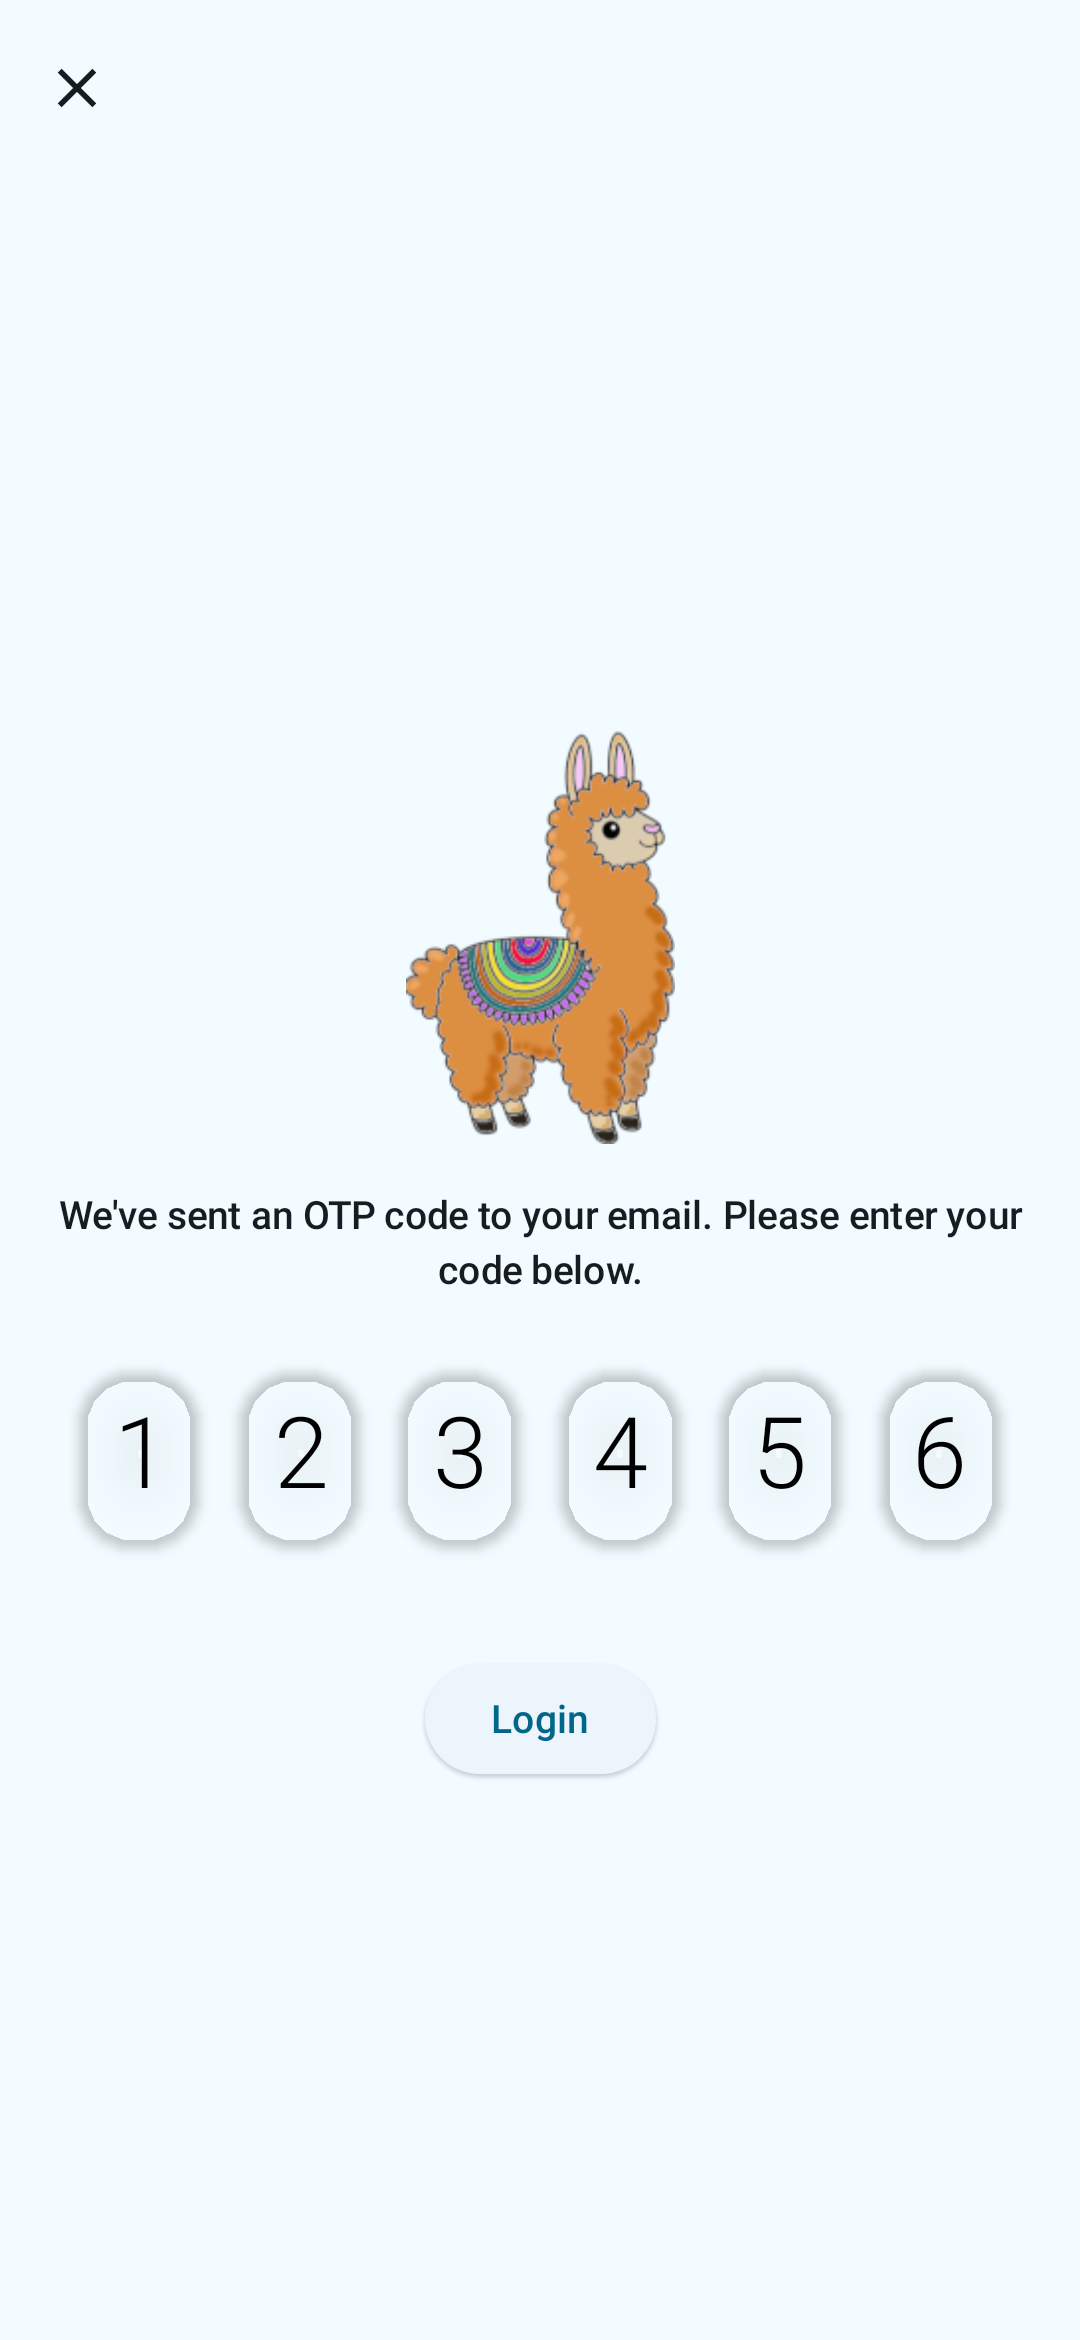
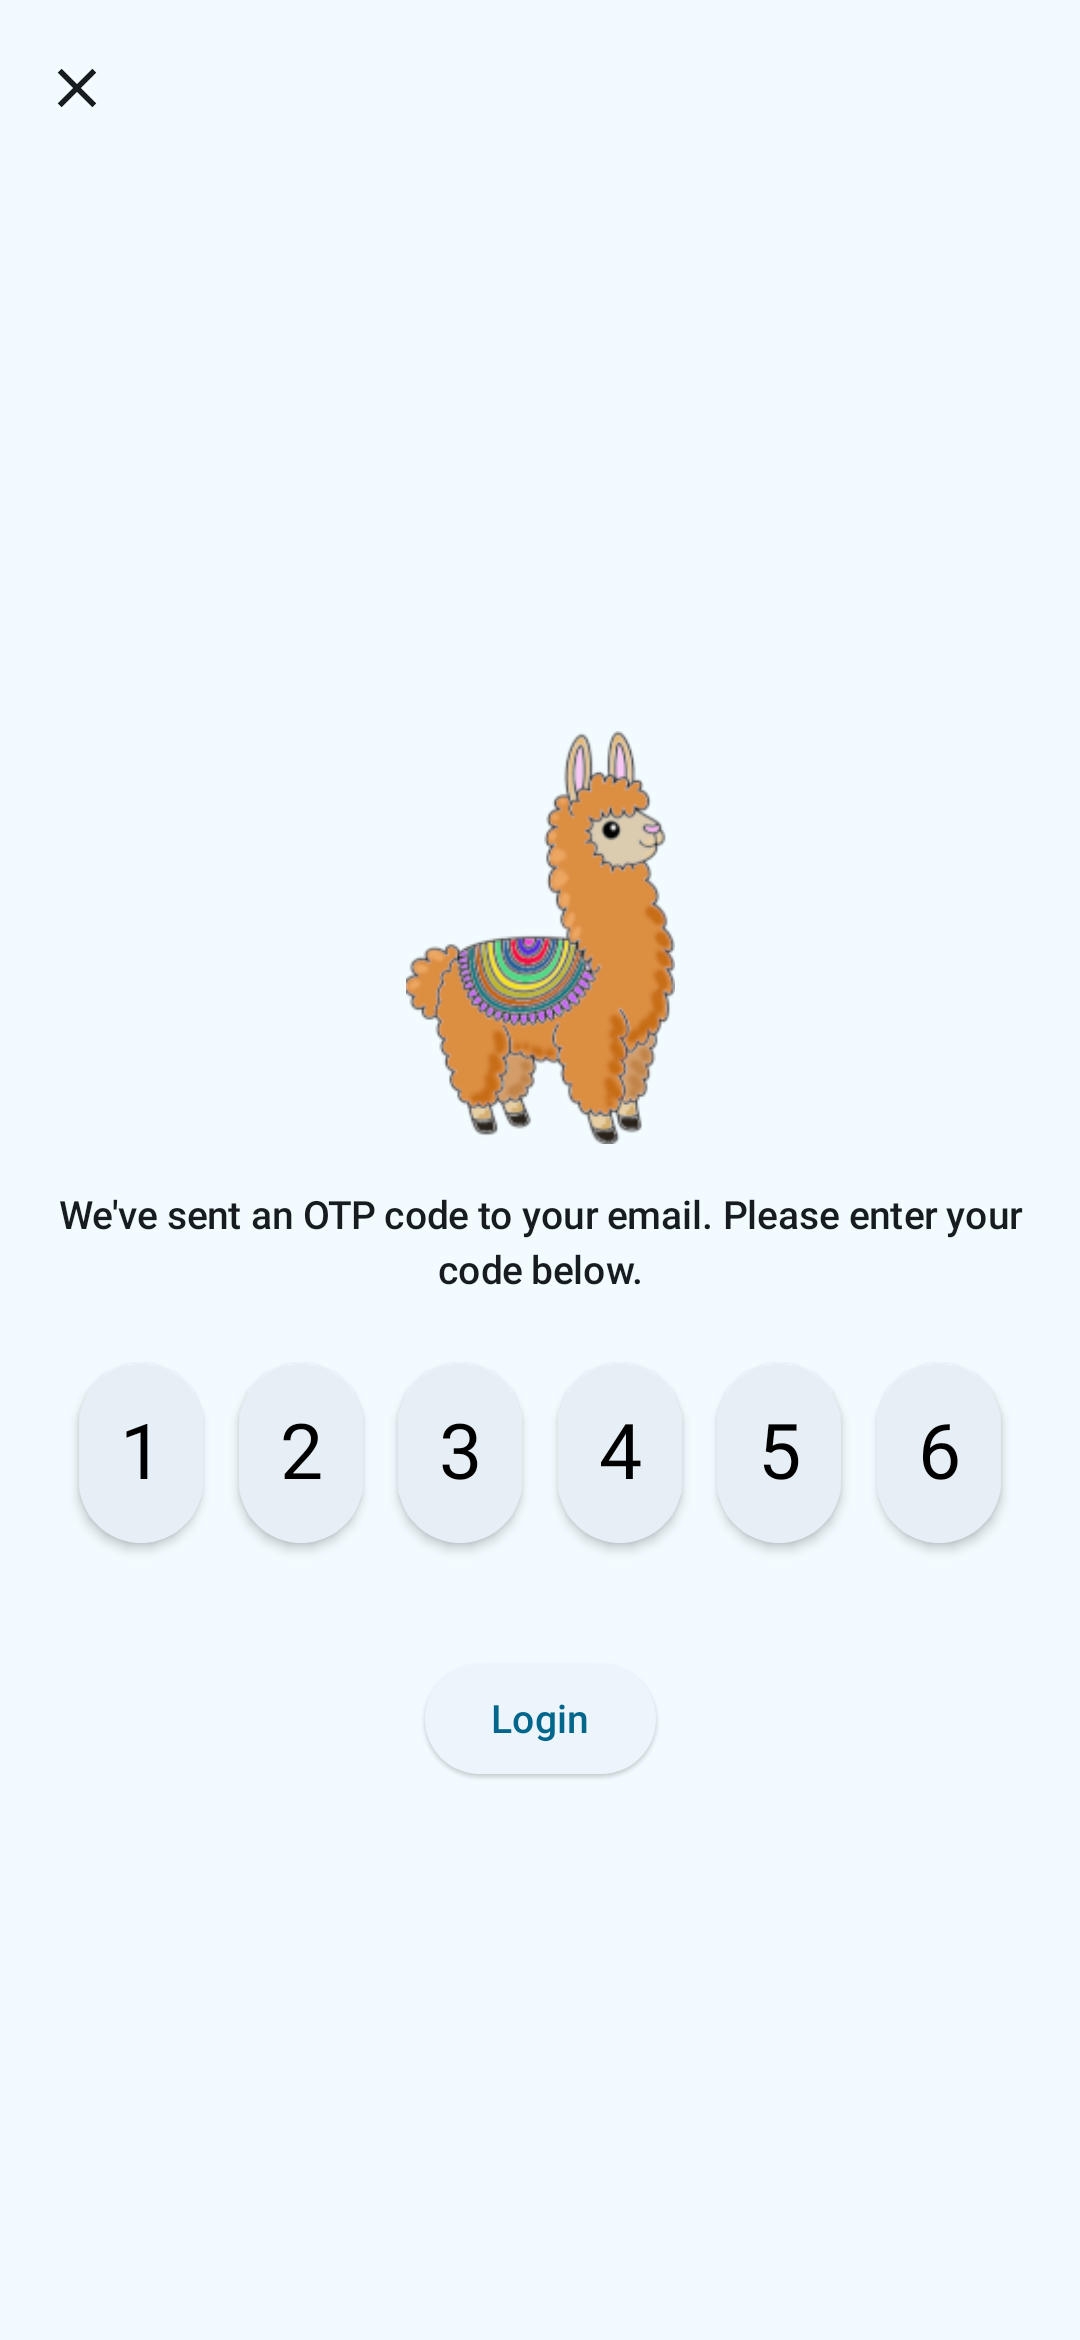
#191 - Fix OTP field focus (#208)
* [EDIFIKANA] #191 Fixed issues with otp field focus. Fixed delete to actually change pos. Updated themes

* [EDIFIKANA] #191 Disabled abilty to add non-digits. Updated tests and moved all validation logic to VM.

* Addressing copilot PR feedback.

* Addressing PR feedback, added TODO

* [ignore-commit] Committing CI changes

---------

diff --git a/edifikana/front-end/shared-app/src/commonMain/kotlin/com/cramsan/edifikana/client/lib/features/auth/validation/OtpValidationScreen.kt b/edifikana/front-end/shared-app/src/commonMain/kotlin/com/cramsan/edifikana/client/lib/features/auth/validation/OtpValidationScreen.kt
@@ -2,6 +2,7 @@ package com.cramsan.edifikana.client.lib.features.auth.validation
 
 import androidx.compose.animation.AnimatedContent
 import androidx.compose.foundation.Image
+import androidx.compose.foundation.background
 import androidx.compose.foundation.border
 import androidx.compose.foundation.layout.Arrangement
 import androidx.compose.foundation.layout.Box
@@ -11,7 +12,6 @@ import androidx.compose.foundation.layout.padding
 import androidx.compose.foundation.layout.size
 import androidx.compose.foundation.layout.wrapContentSize
 import androidx.compose.foundation.layout.wrapContentWidth
-import androidx.compose.foundation.shape.RoundedCornerShape
 import androidx.compose.foundation.text.BasicTextField
 import androidx.compose.foundation.text.KeyboardOptions
 import androidx.compose.material3.ElevatedButton
@@ -32,7 +32,6 @@ import androidx.compose.ui.draw.shadow
 import androidx.compose.ui.focus.FocusRequester
 import androidx.compose.ui.focus.focusRequester
 import androidx.compose.ui.focus.onFocusChanged
-import androidx.compose.ui.graphics.Color
 import androidx.compose.ui.graphics.SolidColor
 import androidx.compose.ui.input.key.Key
 import androidx.compose.ui.input.key.key
@@ -40,13 +39,10 @@ import androidx.compose.ui.input.key.onKeyEvent
 import androidx.compose.ui.platform.LocalFocusManager
 import androidx.compose.ui.platform.LocalSoftwareKeyboardController
 import androidx.compose.ui.text.TextRange
-import androidx.compose.ui.text.TextStyle
-import androidx.compose.ui.text.font.FontWeight
 import androidx.compose.ui.text.input.KeyboardType
 import androidx.compose.ui.text.input.TextFieldValue
 import androidx.compose.ui.text.style.TextAlign
 import androidx.compose.ui.unit.dp
-import androidx.compose.ui.unit.sp
 import androidx.lifecycle.Lifecycle
 import androidx.lifecycle.compose.LifecycleEventEffect
 import com.cramsan.edifikana.client.lib.features.auth.AuthRouteDestination
@@ -125,7 +121,7 @@ internal fun OtpValidationContent(
     onLoginClicked: () -> Unit,
     onBackClicked: () -> Unit,
     onOtpFieldFocused: (Int) -> Unit,
-    onEnterOtpValue: (Int?, Int) -> Unit,
+    onEnterOtpValue: (String?, Int) -> Unit,
     onKeyboardBack: () -> Unit,
 ) {
     Scaffold(
@@ -236,15 +232,15 @@ internal fun OtpValidationContent(
 @Suppress("UnusedParameter")
 @Composable
 fun OtpInputField(
-    value: Int?,
+    value: String?,
     focusRequester: FocusRequester,
     onFocusChanged: (Boolean) -> Unit,
-    onValueChanged: (Int?) -> Unit,
+    onValueChanged: (String?) -> Unit,
     onKeyboardBack: () -> Unit,
     modifier: Modifier = Modifier,
 ) {
     // State to hold the text field value and focus state
-    var text by remember {
+    var text by remember(value) {
         mutableStateOf(
             TextFieldValue(
                 text = value?.toString().orEmpty(),
@@ -261,13 +257,17 @@ fun OtpInputField(
 
     Box(
         modifier = modifier
+            .shadow(3.dp, MaterialTheme.shapes.extraLarge)
             .border(
                 width = 8.dp,
-                color = Color.Transparent,
-                shape = RoundedCornerShape(8.dp),
+                color = MaterialTheme.colorScheme.surfaceContainer,
+                shape = MaterialTheme.shapes.extraLarge,
             )
-            .size(width = 45.dp, height = 65.dp)
-            .shadow(3.dp, RoundedCornerShape(20.dp)),
+            .background(
+                color = MaterialTheme.colorScheme.surfaceContainer,
+                shape = MaterialTheme.shapes.extraLarge,
+            )
+            .size(width = 45.dp, height = 65.dp),
         contentAlignment = Alignment.Center
     ) {
         BasicTextField(
@@ -275,16 +275,13 @@ fun OtpInputField(
             onValueChange = { newText ->
                 val newValue = newText.text
                 if (newValue.length <= 1) {
-                    onValueChanged(newValue.toIntOrNull())
+                    onValueChanged(newValue)
                 }
             },
-            cursorBrush = SolidColor(MaterialTheme.colorScheme.primary),
+            cursorBrush = SolidColor(MaterialTheme.colorScheme.outlineVariant),
             singleLine = true,
-            textStyle = TextStyle(
-                textAlign = TextAlign.Center,
-                fontWeight = FontWeight.Light,
-                fontSize = 36.sp,
-                color = Color.Black,
+            textStyle = MaterialTheme.typography.headlineMedium.copy(
+                textAlign = TextAlign.Center
             ),
             keyboardOptions = KeyboardOptions(
                 keyboardType = KeyboardType.Number,
@@ -294,9 +291,10 @@ fun OtpInputField(
                 .focusRequester(focusRequester)
                 .onFocusChanged {
                     isFocused = it.isFocused
+                    onFocusChanged(isFocused)
                 }
                 .onKeyEvent { event ->
-                    val didPressDelete = event.key == Key.Delete
+                    val didPressDelete = event.key == Key.Delete || event.key == Key.Backspace
                     if (didPressDelete && value == null) {
                         onKeyboardBack()
                     }
@@ -308,9 +306,8 @@ fun OtpInputField(
                     Text(
                         text = "",
                         textAlign = TextAlign.Center,
-                        color = Color.Black,
-                        fontSize = 36.sp,
-                        fontWeight = FontWeight.Light,
+                        color = MaterialTheme.colorScheme.surfaceContainer,
+                        style = MaterialTheme.typography.headlineMedium,
                         modifier = Modifier
                             .wrapContentSize()
                     )
@@ -328,7 +325,7 @@ fun OtpSection(
     uistate: OtpValidationUIState,
     focusRequesters: List<FocusRequester>,
     onOtpFieldFocused: (Int) -> Unit,
-    onEnterOtpValue: (Int?, Int) -> Unit,
+    onEnterOtpValue: (String?, Int) -> Unit,
     onKeyboardBack: () -> Unit,
     modifier: Modifier = Modifier,
 ) {

diff --git a/edifikana/front-end/shared-app/src/androidMain/kotlin/com/cramsan/edifikana/client/lib/features/main/main/MainActivity.kt b/edifikana/front-end/shared-app/src/androidMain/kotlin/com/cramsan/edifikana/client/lib/features/main/main/MainActivity.kt
@@ -7,9 +7,12 @@ import androidx.activity.ComponentActivity
 import androidx.activity.compose.setContent
 import androidx.activity.result.PickVisualMediaRequest
 import androidx.activity.result.contract.ActivityResultContracts
+import androidx.compose.runtime.LaunchedEffect
 import androidx.core.content.ContextCompat
 import androidx.lifecycle.lifecycleScope
+import com.cramsan.edifikana.client.lib.features.application.EdifikanaApplicationViewModel
 import com.cramsan.edifikana.client.lib.features.main.camera.CameraContract
+import com.cramsan.edifikana.client.lib.features.window.ComposableKoinContext
 import com.cramsan.edifikana.client.lib.features.window.EdifikanaMainScreenEventHandler
 import com.cramsan.edifikana.client.lib.features.window.EdifikanaWindowScreen
 import com.cramsan.edifikana.client.lib.features.window.EdifikanaWindowViewModel
@@ -18,6 +21,9 @@ import com.cramsan.edifikana.client.lib.utils.shareContent
 import com.cramsan.framework.core.CoreUri
 import kotlinx.coroutines.launch
 import org.koin.android.ext.android.inject
+import org.koin.compose.koinInject
+import org.koin.compose.scope.KoinScope
+import org.koin.core.annotation.KoinExperimentalAPI
 
 /**
  * Main activity for the application.
@@ -38,14 +44,24 @@ class MainActivity : ComponentActivity(), EdifikanaMainScreenEventHandler {
         viewModel.handleReceivedImages(uris.map { CoreUri(it) })
     }
 
+    @OptIn(KoinExperimentalAPI::class)
     @Suppress("LongMethod")
     override fun onCreate(savedInstanceState: Bundle?) {
         super.onCreate(savedInstanceState)
-
+        // TODO: #199 to address temp fix implemented here
         setContent {
-            EdifikanaWindowScreen(
-                eventHandler = this,
-            )
+            ComposableKoinContext {
+                val processViewModel: EdifikanaApplicationViewModel = koinInject()
+                LaunchedEffect(Unit) {
+                    processViewModel.initialize()
+                }
+
+                KoinScope<String>("root-window") {
+                    EdifikanaWindowScreen(
+                        eventHandler = this,
+                    )
+                }
+            }
         }
     }
 

diff --git a/edifikana/front-end/shared-app/src/jvmTest/kotlin/com/cramsan/edifikana/client/lib/features/auth/validation/OtpValidationViewModelTest.kt b/edifikana/front-end/shared-app/src/jvmTest/kotlin/com/cramsan/edifikana/client/lib/features/auth/validation/OtpValidationViewModelTest.kt
@@ -81,7 +81,7 @@ class OtpValidationViewModelTest : CoroutineTest() {
     fun `signInWithOtp should call signInWithOtp on authManager with correct params`() = runCoroutineTest {
         // Arrange
         val email = "user@domain.com"
-        val otp = listOf(1,2,3,4,5,6)
+        val otp = listOf("1","2","3","4","5","6")
         viewModel.initializeOTPValidationScreen(email, accountCreationFlow = false)
         this.testScheduler.advanceUntilIdle()
         otp.forEachIndexed { index, value ->
@@ -126,12 +126,30 @@ class OtpValidationViewModelTest : CoroutineTest() {
         // Act
         viewModel.onOtpFieldFocused(0)
         this.testScheduler.advanceUntilIdle()
-        viewModel.onEnterOtpValue(5, 0)
+        viewModel.onEnterOtpValue("5", 0)
         this.testScheduler.advanceUntilIdle()
 
         // Assert
-        Assertions.assertEquals(5, viewModel.uiState.value.otpCode[0])
+        Assertions.assertEquals("5", viewModel.uiState.value.otpCode[0])
         Assertions.assertEquals(1, viewModel.uiState.value.focusedIndex)
+    }
+
+    /**
+     * Test that non-digit values are not entered/updated in the otp field.
+     */
+    @Test
+    fun `onEnterOtpValue should ignore non-digit values`() = runCoroutineTest {
+        // Arrange
+        viewModel.onOtpFieldFocused(1)
+        this.testScheduler.advanceUntilIdle()
+        val initialOtp = viewModel.uiState.value.otpCode[1]
+
+        // Act
+        viewModel.onEnterOtpValue("a", 1) // non-digit character
+        this.testScheduler.advanceUntilIdle()
+
+        // Assert
+        Assertions.assertEquals(initialOtp, viewModel.uiState.value.otpCode[1])
     }
 
     /**
@@ -142,7 +160,7 @@ class OtpValidationViewModelTest : CoroutineTest() {
         // Act
         viewModel.onOtpFieldFocused(2)
         this.testScheduler.advanceUntilIdle()
-        viewModel.onEnterOtpValue(7, 2)
+        viewModel.onEnterOtpValue("7", 2)
         this.testScheduler.advanceUntilIdle()
         viewModel.onKeyboardBack()
         this.testScheduler.advanceUntilIdle()

diff --git a/edifikana/front-end/shared-app/src/commonMain/kotlin/com/cramsan/edifikana/client/lib/features/auth/validation/OtpValidationViewModel.kt b/edifikana/front-end/shared-app/src/commonMain/kotlin/com/cramsan/edifikana/client/lib/features/auth/validation/OtpValidationViewModel.kt
@@ -59,15 +59,24 @@ class OtpValidationViewModel(
     /**
      * Called when the OTP value is entered or changed.
      */
-    fun onEnterOtpValue(value: Int?, index: Int) {
+    fun onEnterOtpValue(otpValue: String?, index: Int) {
+        // Check value entered is a digit, if not, do nothing
+        // NOTE: May need to add a check for an empty field in case this return false and doesn't allow new entry
+        val isValid = otpValue == null || (otpValue.length == 1 && otpValue[0].isDigit())
+        if (!isValid) {
+            return
+        }
+        // Update the OTP code at the specified index with the new value
         val newCode = uiState.value.otpCode.mapIndexed { currIndex, currVal ->
             if (currIndex == index) {
-                value
+                otpValue
             } else {
                 currVal
             }
         }
-        val wasValRemoved = value == null
+        // If the value is null, it means the user has removed the value from the field.
+        val wasValRemoved = otpValue == null
+        // Update the UI state with the new OTP code and focused index
         viewModelScope.launch {
             updateUiState {
                 it.copy(
@@ -125,7 +134,7 @@ class OtpValidationViewModel(
      * Returns the next focused index for the OTP field.
      */
     private fun getNextFocusedOtpFieldIndex(
-        currentCode: List<Int?>,
+        currentCode: List<String?>,
         currentFocusedIndex: Int?
     ): Int? {
         // If the current focused index is null, return null
@@ -144,7 +153,7 @@ class OtpValidationViewModel(
      * Returns the next focused index for the OTP field.
      */
     private fun getFirstEmptyFieldIndexAfterFocusedIndex(
-        code: List<Int?>,
+        code: List<String?>,
         currentFocusedIndex: Int
     ): Int {
         code.forEachIndexed { index, number ->

diff --git a/edifikana/front-end/shared-app/src/commonMain/kotlin/com/cramsan/edifikana/client/lib/features/auth/validation/OtpValidationScreen.preview.kt b/edifikana/front-end/shared-app/src/commonMain/kotlin/com/cramsan/edifikana/client/lib/features/auth/validation/OtpValidationScreen.preview.kt
@@ -2,10 +2,12 @@
 
 package com.cramsan.edifikana.client.lib.features.auth.validation
 
+import androidx.compose.foundation.layout.size
 import androidx.compose.runtime.Composable
 import androidx.compose.runtime.remember
 import androidx.compose.ui.Modifier
 import androidx.compose.ui.focus.FocusRequester
+import androidx.compose.ui.unit.dp
 import com.cramsan.edifikana.client.ui.theme.AppTheme
 import org.jetbrains.compose.ui.tooling.preview.Preview
 
@@ -17,7 +19,7 @@ private fun ValidationScreenPreview() = AppTheme {
             isLoading = true,
             errorMessage = "",
             email = "garcia.alicia1990@gmail.com",
-            otpCode = listOf(1, 2, 3, 4, 5, 6),
+            otpCode = listOf("1", "2", "3", "4", "5", "6"),
             focusedIndex = 0,
             accountCreationFlow = true,
         ),
@@ -34,11 +36,12 @@ private fun ValidationScreenPreview() = AppTheme {
 @Composable
 private fun OtpInputFieldPreview() = AppTheme {
     OtpInputField(
-        value = 6,
+        value = "6",
         focusRequester = remember { FocusRequester() },
         onFocusChanged = {},
         onKeyboardBack = {},
         onValueChanged = {},
-        modifier = Modifier,
+        modifier = Modifier
+            .size(100.dp),
     )
 }

diff --git a/edifikana/front-end/shared-app/src/commonMain/kotlin/com/cramsan/edifikana/client/lib/features/auth/validation/OtpValidationUIState.kt b/edifikana/front-end/shared-app/src/commonMain/kotlin/com/cramsan/edifikana/client/lib/features/auth/validation/OtpValidationUIState.kt
@@ -11,7 +11,7 @@ import com.cramsan.framework.core.compose.ViewModelUIState
 data class OtpValidationUIState(
     val isLoading: Boolean,
     val email: String,
-    val otpCode: List<Int?>,
+    val otpCode: List<String?>,
     val focusedIndex: Int?,
     val errorMessage: String?,
     val accountCreationFlow: Boolean,
@@ -20,7 +20,7 @@ data class OtpValidationUIState(
         val Initial = OtpValidationUIState(
             isLoading = true,
             email = "",
-            otpCode = (1..6).map { null },
+            otpCode = List(6) { null },
             focusedIndex = null,
             errorMessage = null,
             accountCreationFlow = true,
